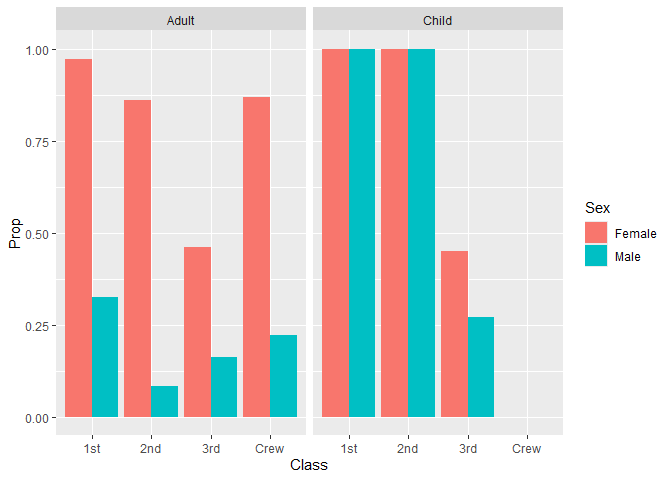
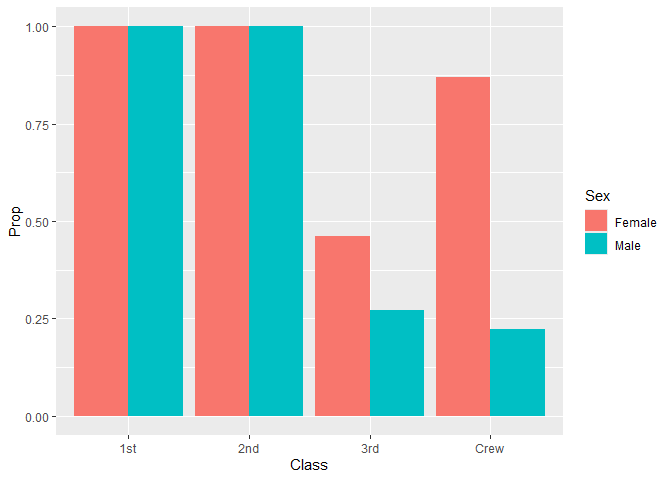
added observation

diff --git a/data-science-curriculum-build/challenges/c01-titanic-assignment.md b/data-science-curriculum-build/challenges/c01-titanic-assignment.md
@@ -234,7 +234,8 @@ df_prop %>%
 
 **Observations**:
 
-- Write your observations here.
+- Write your observations here. It appears that a higher percentage of
+  female crew survived compared to the male crew.
 - Is there anything *fishy* going on in your plot?
   - It says that 100% of 1st and 2nd class passengers survived which we
     know is not true.
@@ -251,17 +252,45 @@ df_prop %>%
     aes(
       x = Class, 
       y = Prop, 
-      fill = Sex)) +
-  geom_col(
-    position = "dodge") +
-  facet_grid(
-    ~Age)
+      fill = Sex
+    )
+  ) +
+  geom_col(position = "dodge") 
 ```
 
     ## Warning: Removed 2 rows containing missing values or values outside the scale range
     ## (`geom_col()`).
 
 ![](c01-titanic-assignment_files/figure-gfm/q5-task-1.png)<!-- -->
+
+``` r
+  facet_grid(
+    ~Age)
+```
+
+    ## <ggproto object: Class FacetGrid, Facet, gg>
+    ##     attach_axes: function
+    ##     attach_strips: function
+    ##     compute_layout: function
+    ##     draw_back: function
+    ##     draw_front: function
+    ##     draw_labels: function
+    ##     draw_panel_content: function
+    ##     draw_panels: function
+    ##     finish_data: function
+    ##     format_strip_labels: function
+    ##     init_gtable: function
+    ##     init_scales: function
+    ##     map_data: function
+    ##     params: list
+    ##     set_panel_size: function
+    ##     setup_data: function
+    ##     setup_panel_params: function
+    ##     setup_params: function
+    ##     shrink: TRUE
+    ##     train_scales: function
+    ##     vars: function
+    ##     super:  <ggproto object: Class FacetGrid, Facet, gg>
 
 **Observations**:
 
